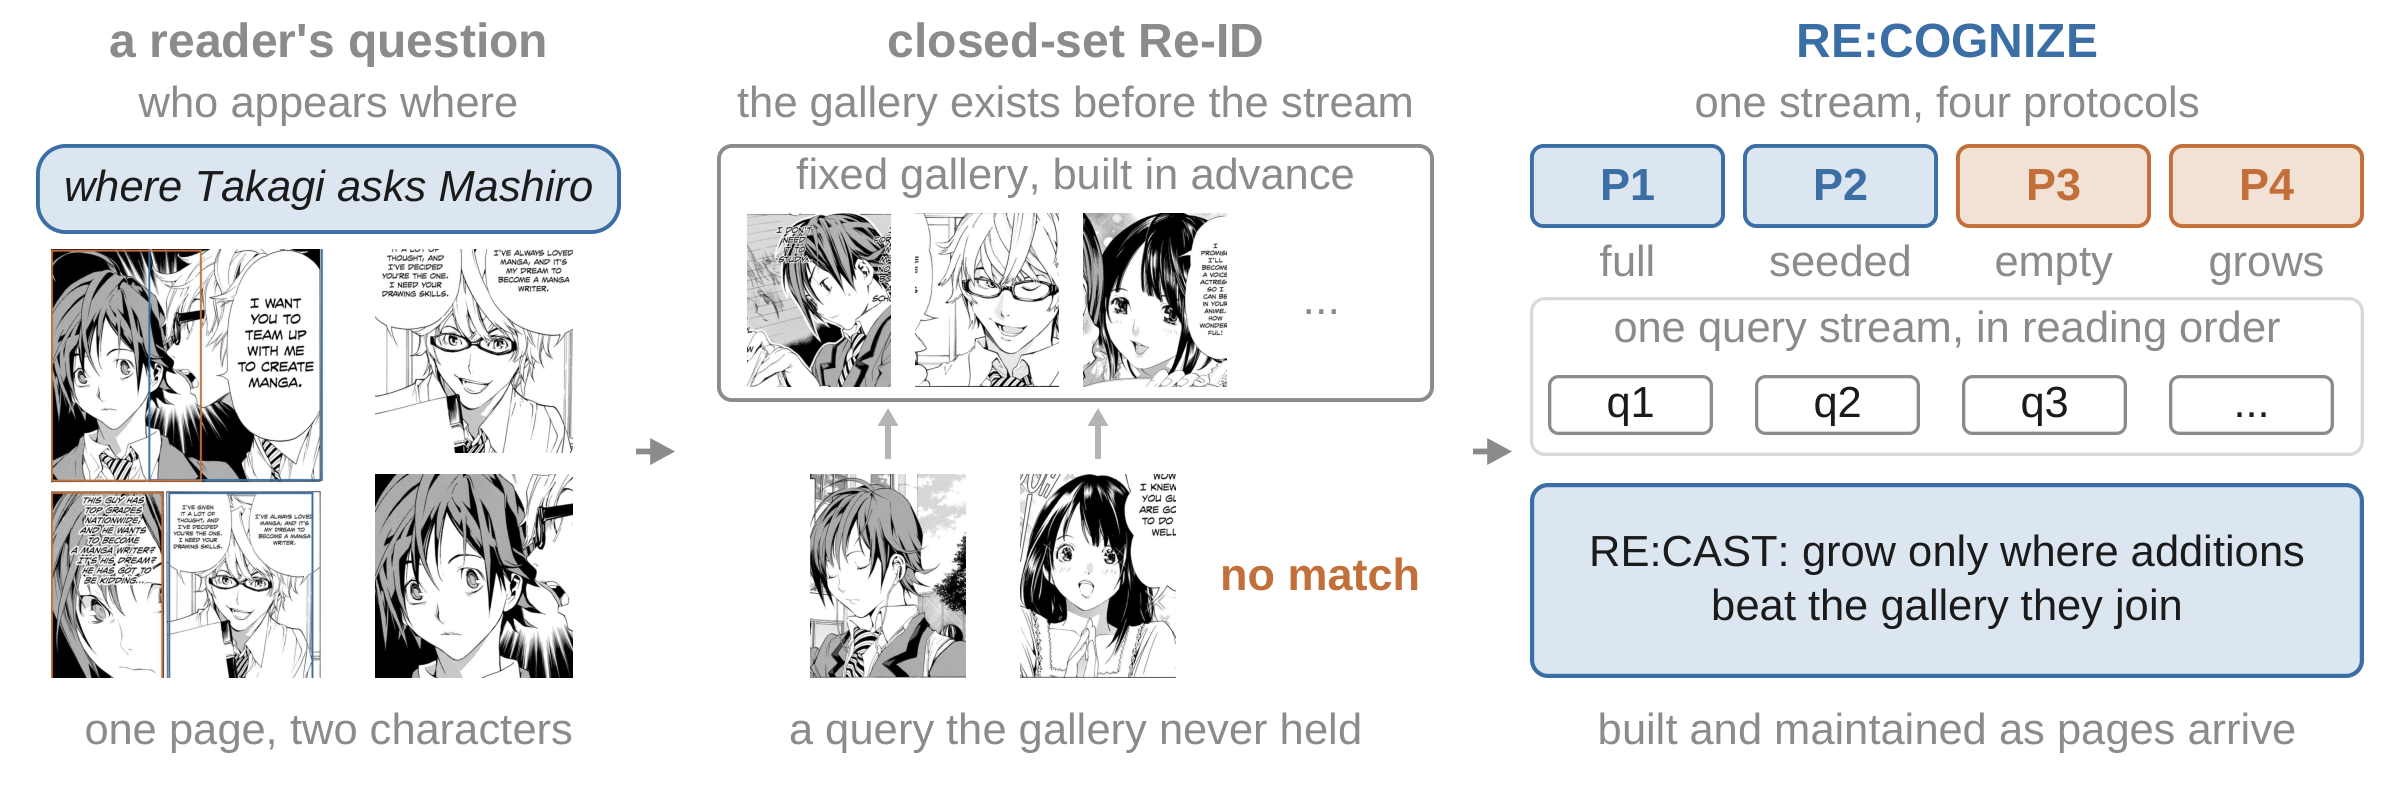
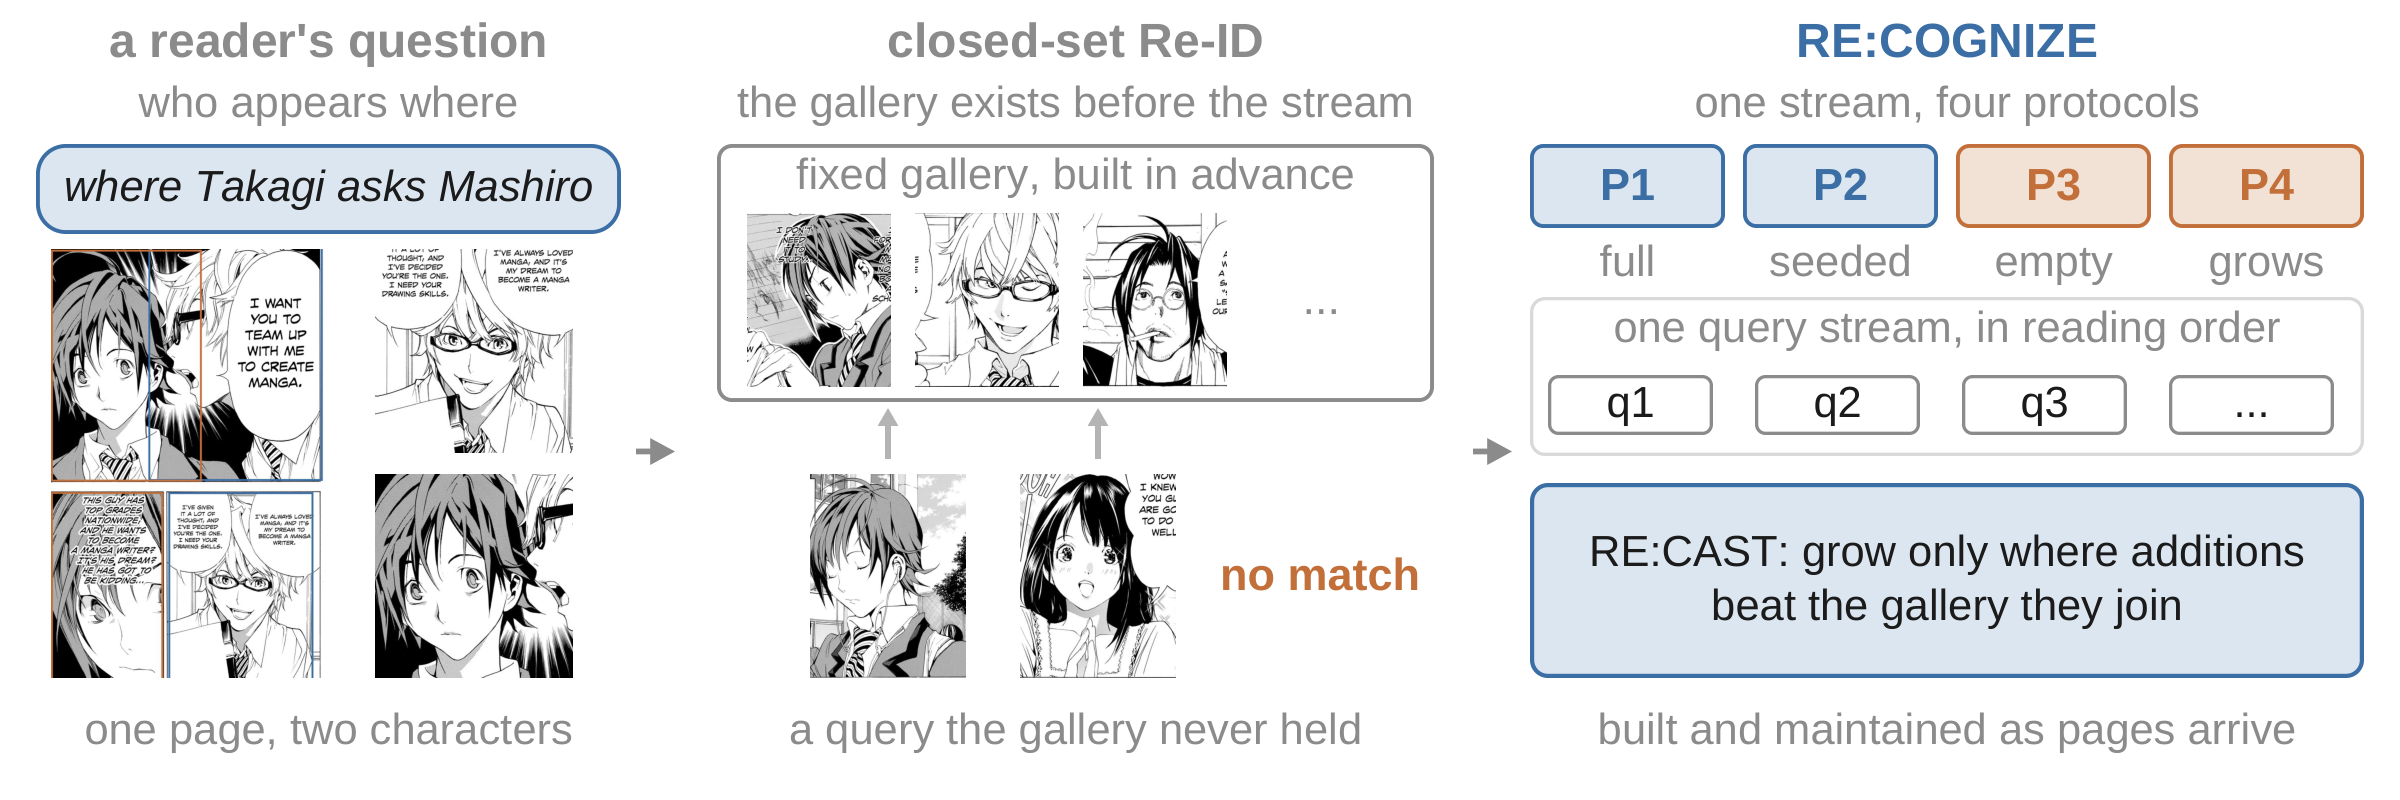
Teaser: the gallery's third crop is Mashiro's uncle, not Azuki
The centre panel's "no match" query is Azuki, but Azuki was also in the fixed gallery, which
contradicts "a query the gallery never held". The third gallery crop is now Nobuhiro Mashiro
(Bakuman ch. 1, p. 32), so the gallery holds Mashiro, Takagi and the uncle and the Azuki query
genuinely has no match. teaser.png is the 2x render of the fixed teaser.pdf; only that frame
changed.

Changed region(s): [[0.4375, 0.25, 0.5312, 0.5]]

diff --git a/paper/recast_figure_images.py b/paper/recast_figure_images.py
@@ -82,9 +82,10 @@ TEASER = {
     "A_C1":   (250, 166, 132, 136, ("crop", "Bakuman/Bakuman - c001 (web) - p018 [Unknown]", "Akito Takagi", 1), BLUE),
     "A_C2":   (250, 316, 132, 136, ("crop", "Bakuman/Bakuman - c001 (web) - p018 [Unknown]", "Moritaka Mashiro", 0), ORANGE),
 
+    # the fixed gallery holds no Azuki, so the Azuki query (B_Q2) has no match
     "B_G1":   (498, 142, 96, 116, ("crop", "Bakuman/Bakuman - c001 (web) - p011 [Unknown]", "Moritaka Mashiro", 0), GREY),
     "B_G2":   (610, 142, 96, 116, ("crop", "Bakuman/Bakuman - c001 (web) - p025 [Unknown]", "Akito Takagi", 0), GREY),
-    "B_G3":   (722, 142, 96, 116, ("crop", "Bakuman/Bakuman - c001 (web) - p051 [Unknown]", "Miho Azuki", 0), GREY),
+    "B_G3":   (722, 142, 96, 116, ("crop", "Bakuman/Bakuman - c001 (web) - p032 [Unknown]", "Nobuhiro Mashiro", 1), GREY),
     "B_Q1":   (540, 316, 104, 136, ("crop", "Bakuman/Bakuman - c001 (web) - p004 [Unknown]", "Moritaka Mashiro", 0), BLUE),
     "B_Q2":   (680, 316, 104, 136, ("crop", "Bakuman/Bakuman - c001 (web) - p050 [Unknown]", "Miho Azuki", 0), ORANGE),
 }
